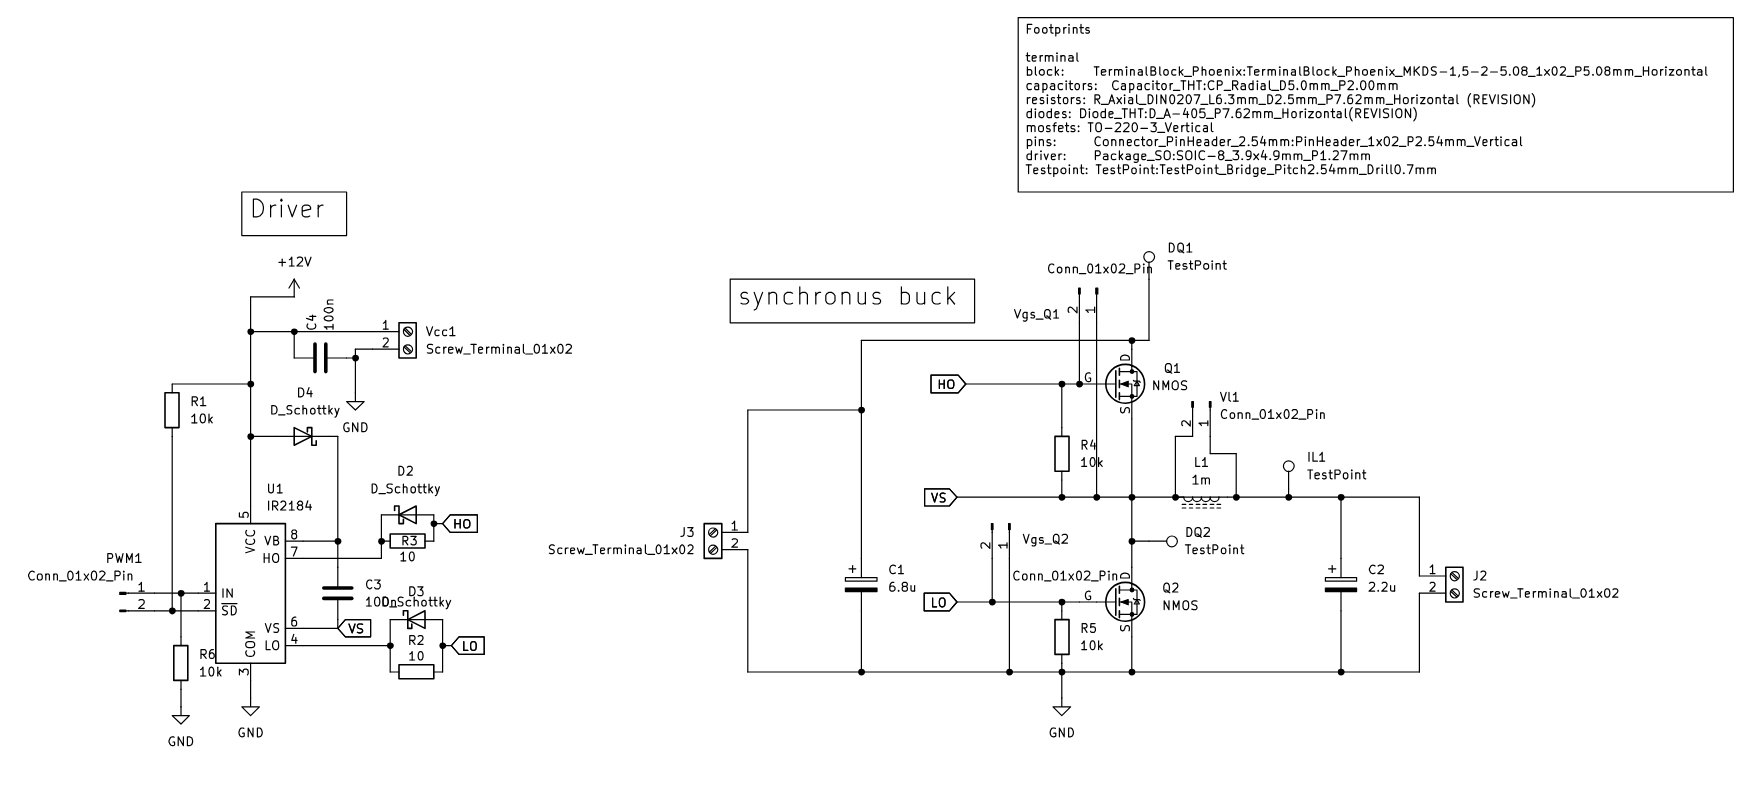
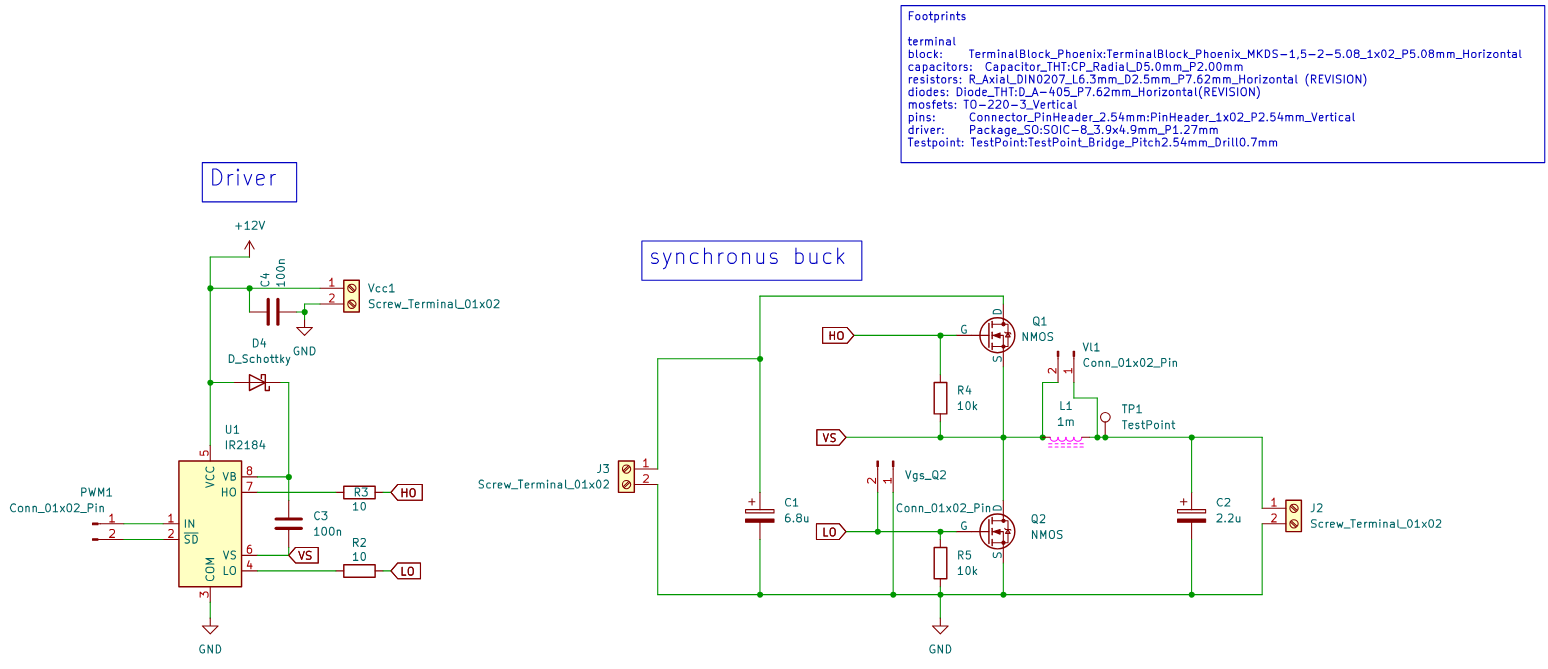
updated pics

diff --git a/README.md b/README.md
@@ -55,7 +55,7 @@ Diagram (preliminary):
 
 ## Schematic & PCB layout
 <p>
-  <img src="pics/kicadss2.png" alt="schematic" width="600"/>
+  <img src="pics/kicad_ss.png" alt="schematic" width="600"/>
 </p>
 
 <p>
